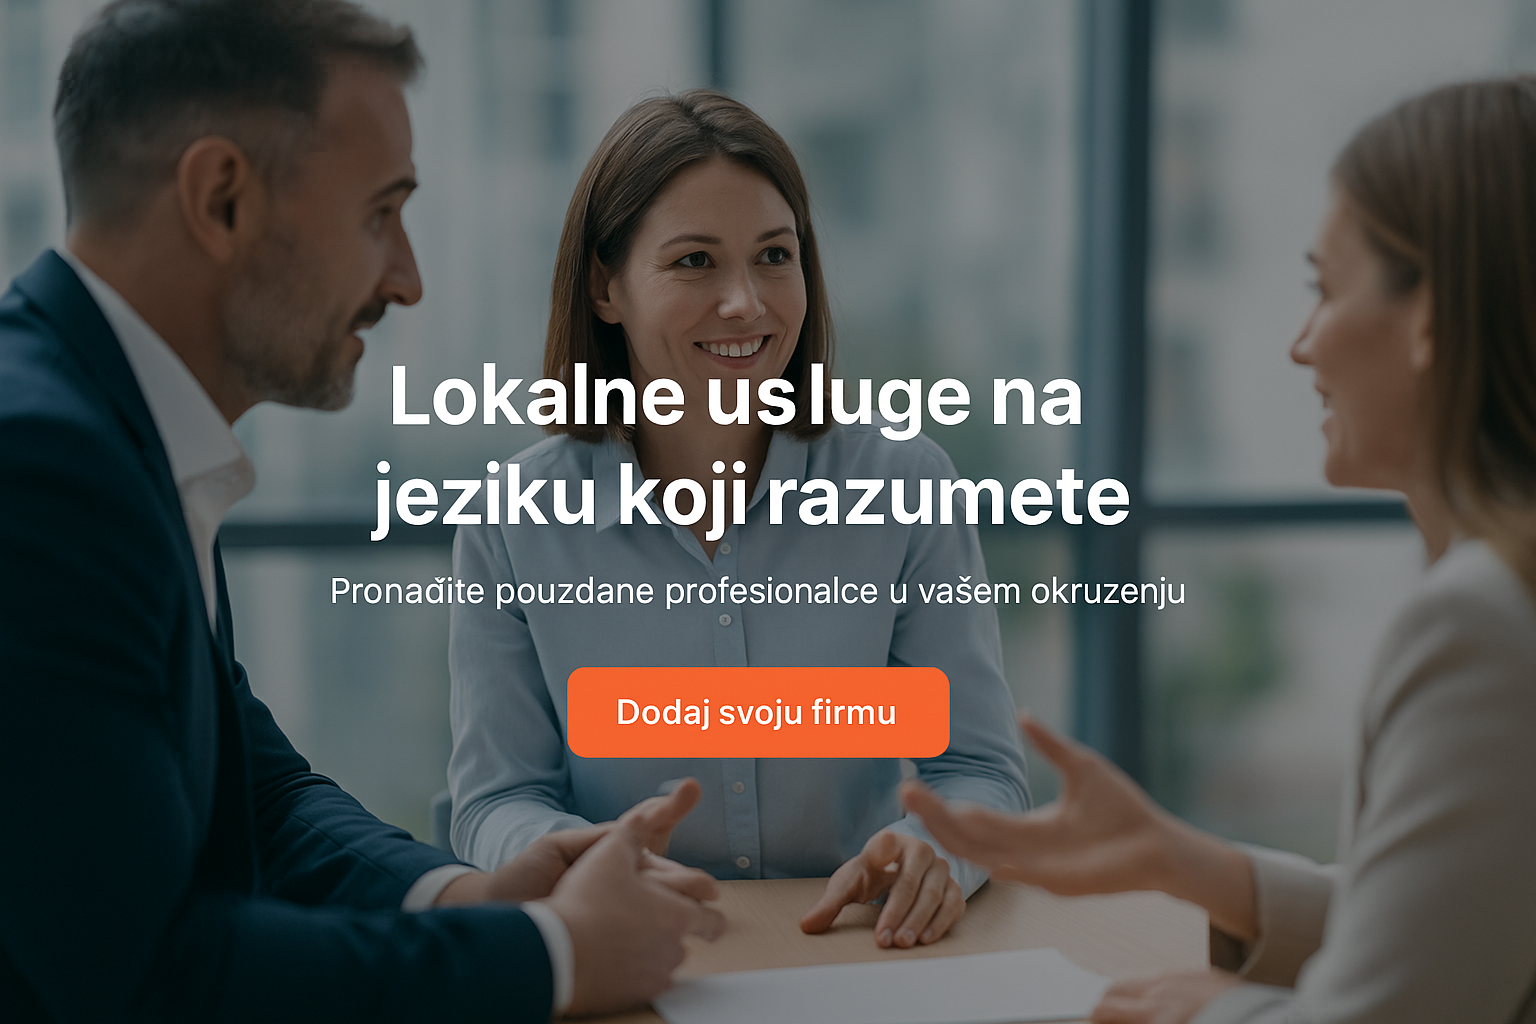
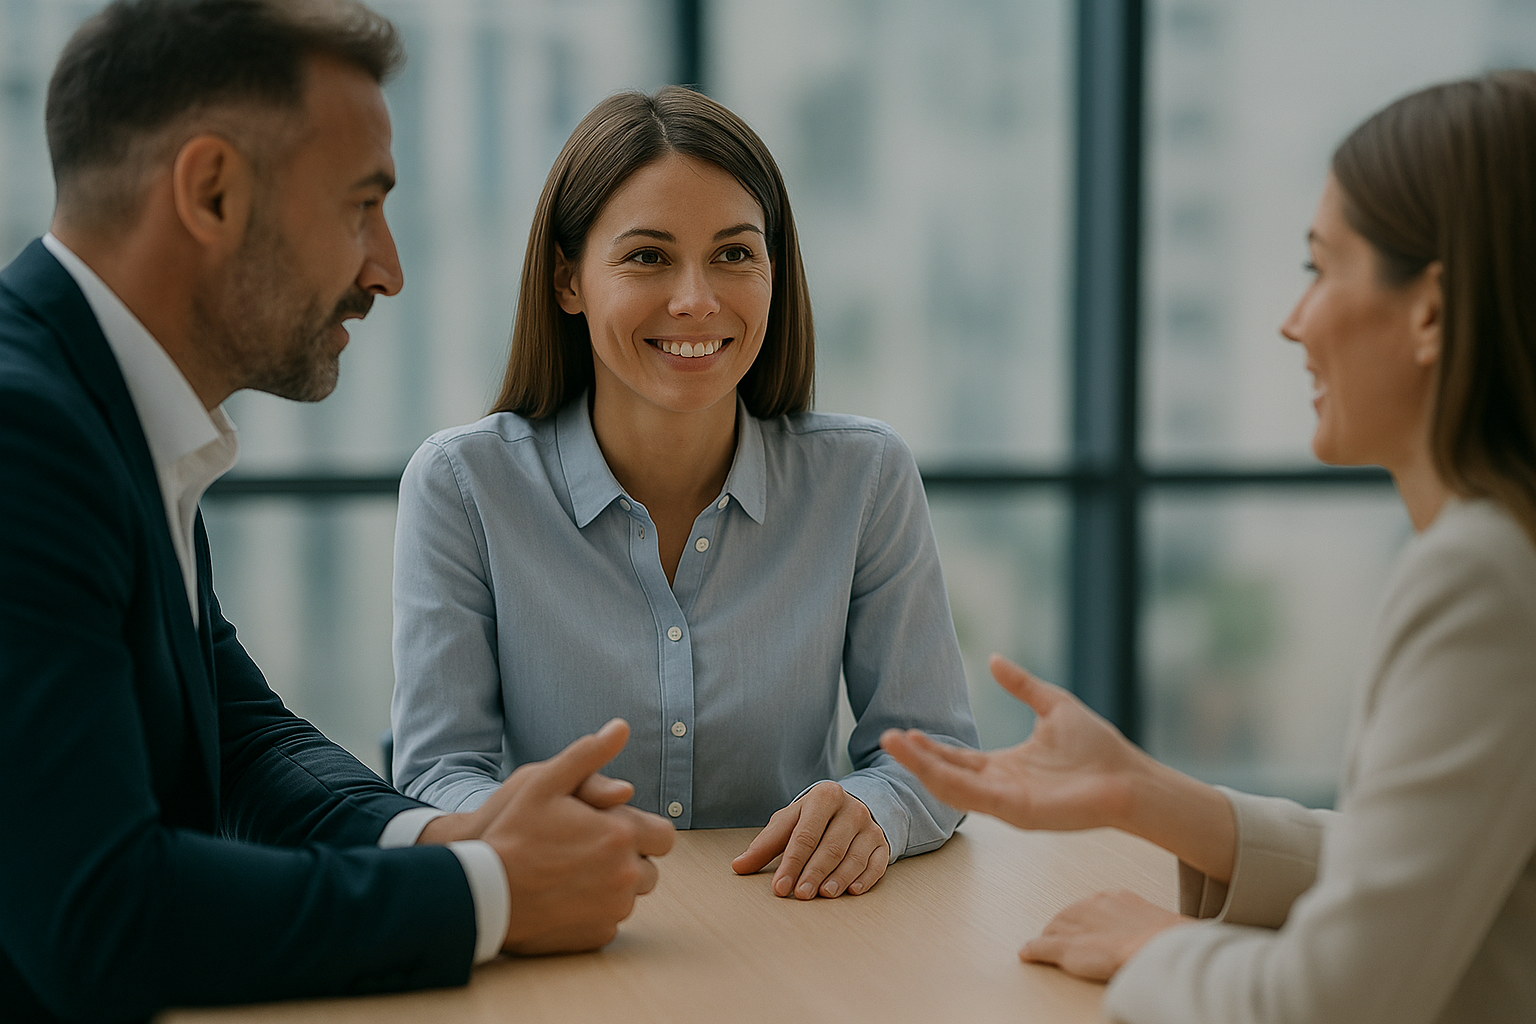
Izmena hero teksta na landing stranici kao i izmena hero slike

diff --git a/index.html b/index.html
@@ -9,8 +9,8 @@
 <body>
 <header class="hero">
   <div class="hero-overlay">
-    <h1>Local services in the language you understand</h1>
-    <p>Search for providers who speak your language.</p>
+    <h1>Lokalne usluge na jeziku koji razumete</h1>
+    <p>Pronađite pouzdane profesionalce u vašem okruženju</p>
     <a href="dodaj-firmu.html" class="btn-cta">Add your company</a>
   </div>
 </header>
